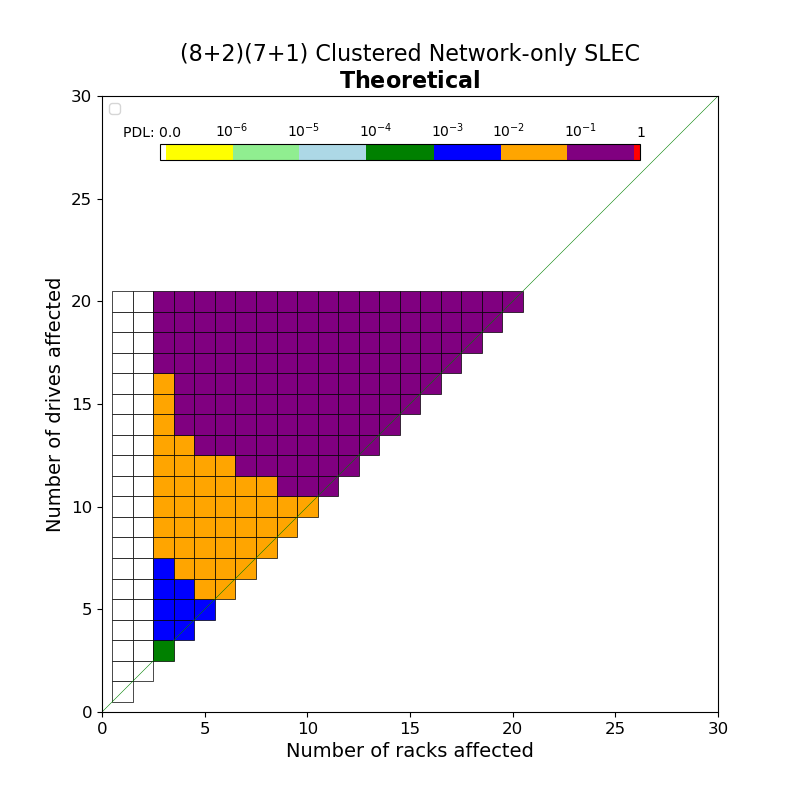
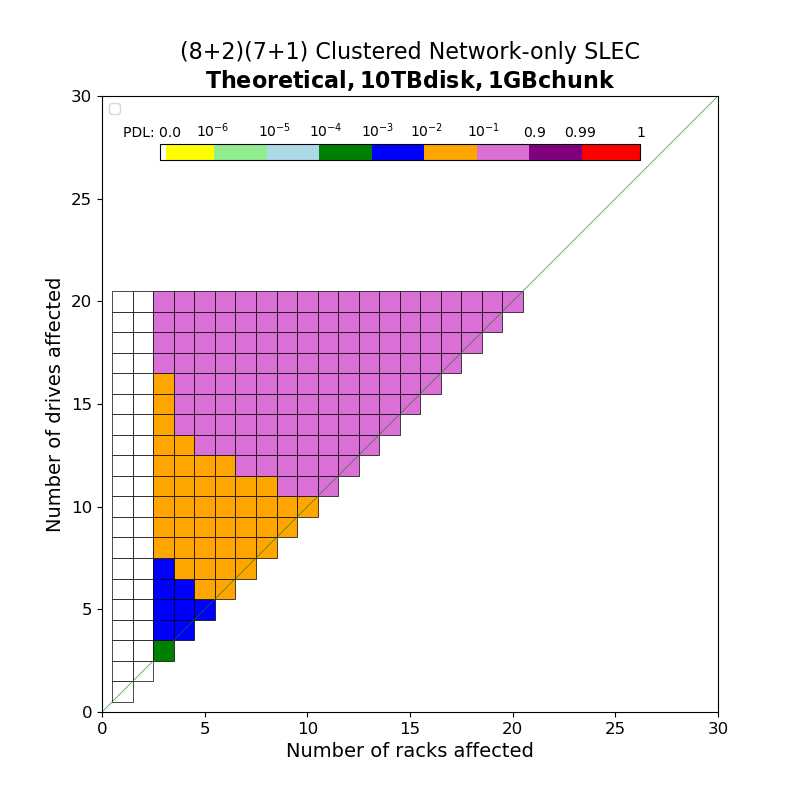
burst net dp figures

Changed region(s): [[0.1875, 0.3438, 0.6562, 0.625], [0.2188, 0.0312, 0.8125, 0.125], [0.25, 0.1562, 0.8125, 0.2188]]

diff --git a/src/failures/theory/heatmap/netdp/plot-raid-log.py b/src/failures/theory/heatmap/netdp/plot-raid-log.py
@@ -47,7 +47,9 @@ def coloring(x):
         return 'blue'
     elif x <= 0.1:
         return 'orange'
-    elif x <= 0.9999:
+    elif x <= 0.9:
+        return 'orchid'
+    elif x <= 0.99:
         return 'purple'
     else:
         return 'red'
@@ -76,7 +78,7 @@ plt.legend()
 plt.xlabel('Number of racks affected', fontsize=14)
 plt.ylabel('Number of drives affected', fontsize=14)
 # plt.title('Frequency of failure bursts sorted by racks and drives affected')
-plt.title(occuranceDataLoss.iloc[1]['config'] + ' Clustered Network-only SLEC\n'+ r"$\bf{Theoretical}$", fontsize=16)
+plt.title(occuranceDataLoss.iloc[1]['config'] + ' Clustered Network-only SLEC\n'+ r"$\bf{Theoretical, 10TB disk, 100GB chunk}$", fontsize=16)
 
 plt.xticks(fontsize=12)
 plt.yticks(fontsize=12)
@@ -84,20 +86,22 @@ axes.get_xaxis().set_major_formatter(matplotlib.ticker.ScalarFormatter())
 axes.get_yaxis().set_major_formatter(matplotlib.ticker.ScalarFormatter())
 
 plt.text(1, 28, 'PDL: 0.0')
-plt.text(5.5, 28, r'$10^{-6}$')
-plt.text(9, 28, r'$10^{-5}$')
-plt.text(12.5, 28, r'$10^{-4}$')
-plt.text(16, 28, r'$10^{-3}$')
-plt.text(19, 28, r'$10^{-2}$')
-plt.text(22.5, 28, r'$10^{-1}$')
+plt.text(4.6, 28, r'$10^{-6}$')
+plt.text(7.6, 28, r'$10^{-5}$')
+plt.text(10.1, 28, r'$10^{-4}$')
+plt.text(12.6, 28, r'$10^{-3}$')
+plt.text(15, 28, r'$10^{-2}$')
+plt.text(17.8, 28, r'$10^{-1}$')
+plt.text(20.5, 28, r'$0.9$')
+plt.text(22.5, 28, r'$0.99$')
 plt.text(26, 28, r'$1$')
 
 import matplotlib as mpl
 import matplotlib.colors as colors
 
 dd = 10**(-100)  # a number that is very close to 0
-hc = ['white', 'white', 'yellow', 'yellow','lightgreen', 'lightgreen', 'lightblue', 'lightblue', 'green', 'green', 'blue', 'blue', 'orange',  'orange', 'purple', 'purple',  'red', 'red']
-th = [0,       0.01,  0.01+dd, 0.15,  0.15+dd,  0.29, 0.29+dd,  0.43,      0.43+dd,   0.57,      0.57+dd,   0.71, 0.71+dd, 0.85, 0.85+dd, 0.99, 1-dd, 1]
+hc = ['white', 'white', 'yellow', 'yellow','lightgreen', 'lightgreen', 'lightblue', 'lightblue', 'green', 'green', 'blue', 'blue', 'orange',  'orange', 'orchid', 'orchid', 'purple', 'purple', 'red', 'red', 'red']
+th = [0,       0.01,  0.01+dd, 0.11,  0.11+dd,  0.22, 0.22+dd,  0.33,      0.33+dd,   0.44,      0.44+dd,   0.55, 0.55+dd, 0.66, 0.66+dd, 0.77, 0.77+dd, 0.88, 0.88+dd, 1-dd, 1]
 
 
 mycolors=list(zip(th, hc))
